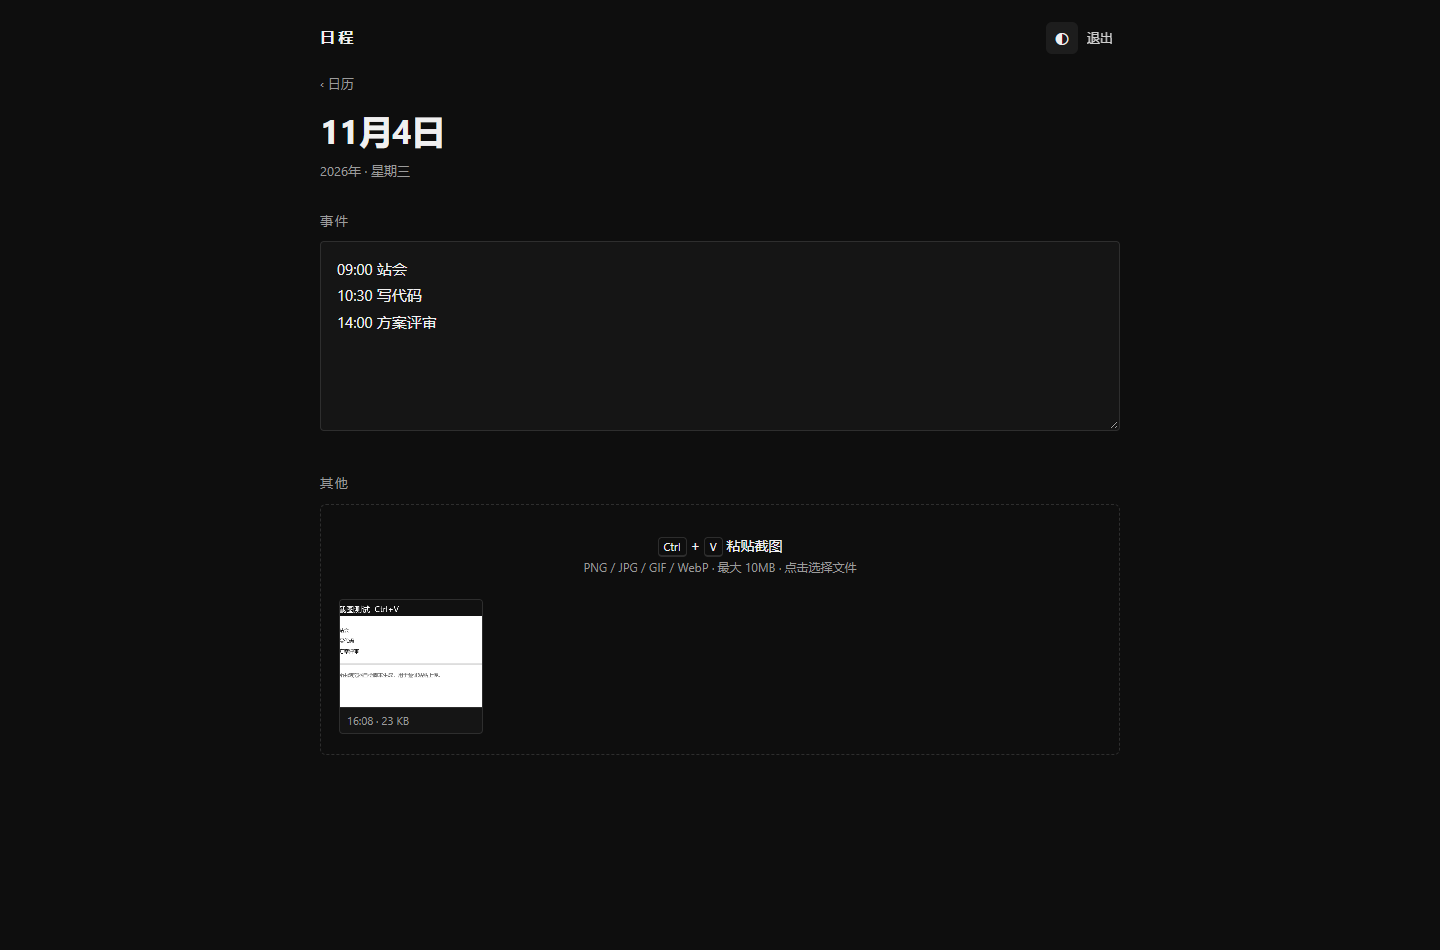
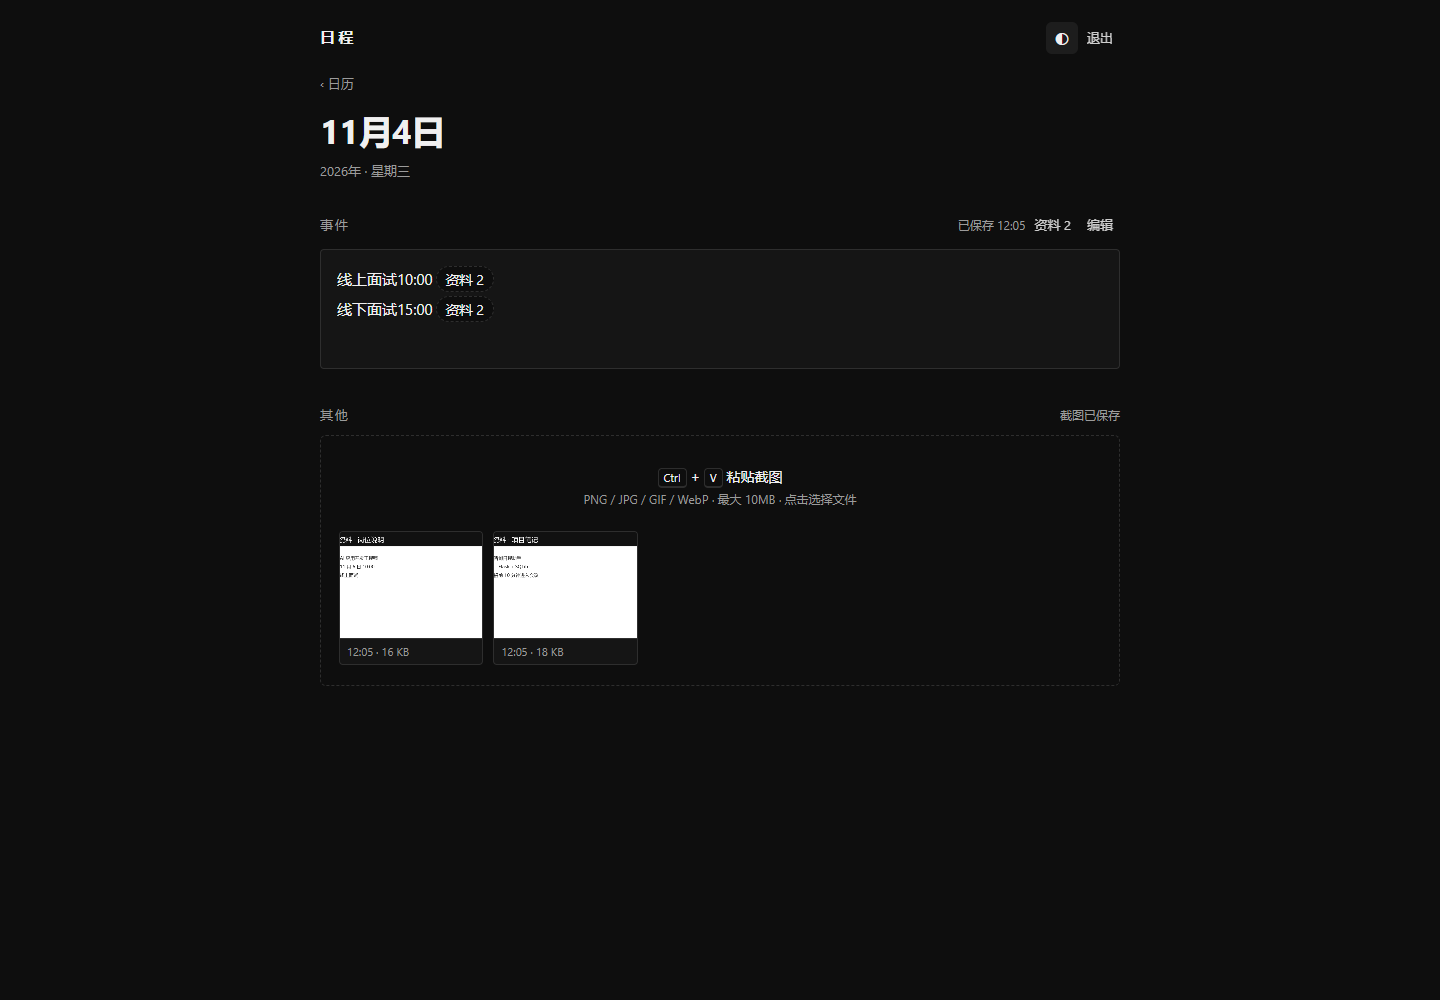
docs: 更新资料标签功能说明与截图
- README 增加 <资料> 标签、浏览/编辑、弹窗收纳说明
- 更新当天页浅色/深色/移动端截图，新增资料弹窗截图
- 当天页测试补充事件浏览/资料弹窗结构断言

diff --git a/tests/test_app.py b/tests/test_app.py
@@ -131,6 +131,12 @@ class SchedulTestCase(unittest.TestCase):
         self.assertIn("11月4日", html)
         self.assertIn("星期三", html)
         self.assertIn("粘贴截图", html)
+        # 事件浏览态、资料标签与截图弹窗的挂载点
+        self.assertIn('id="event-view"', html)
+        self.assertIn('id="edit-event"', html)
+        self.assertIn('id="data-btn"', html)
+        self.assertIn('id="data-modal"', html)
+        self.assertIn("&lt;资料&gt;", html)
 
     def test_invalid_date(self):
         self.login_ok()
